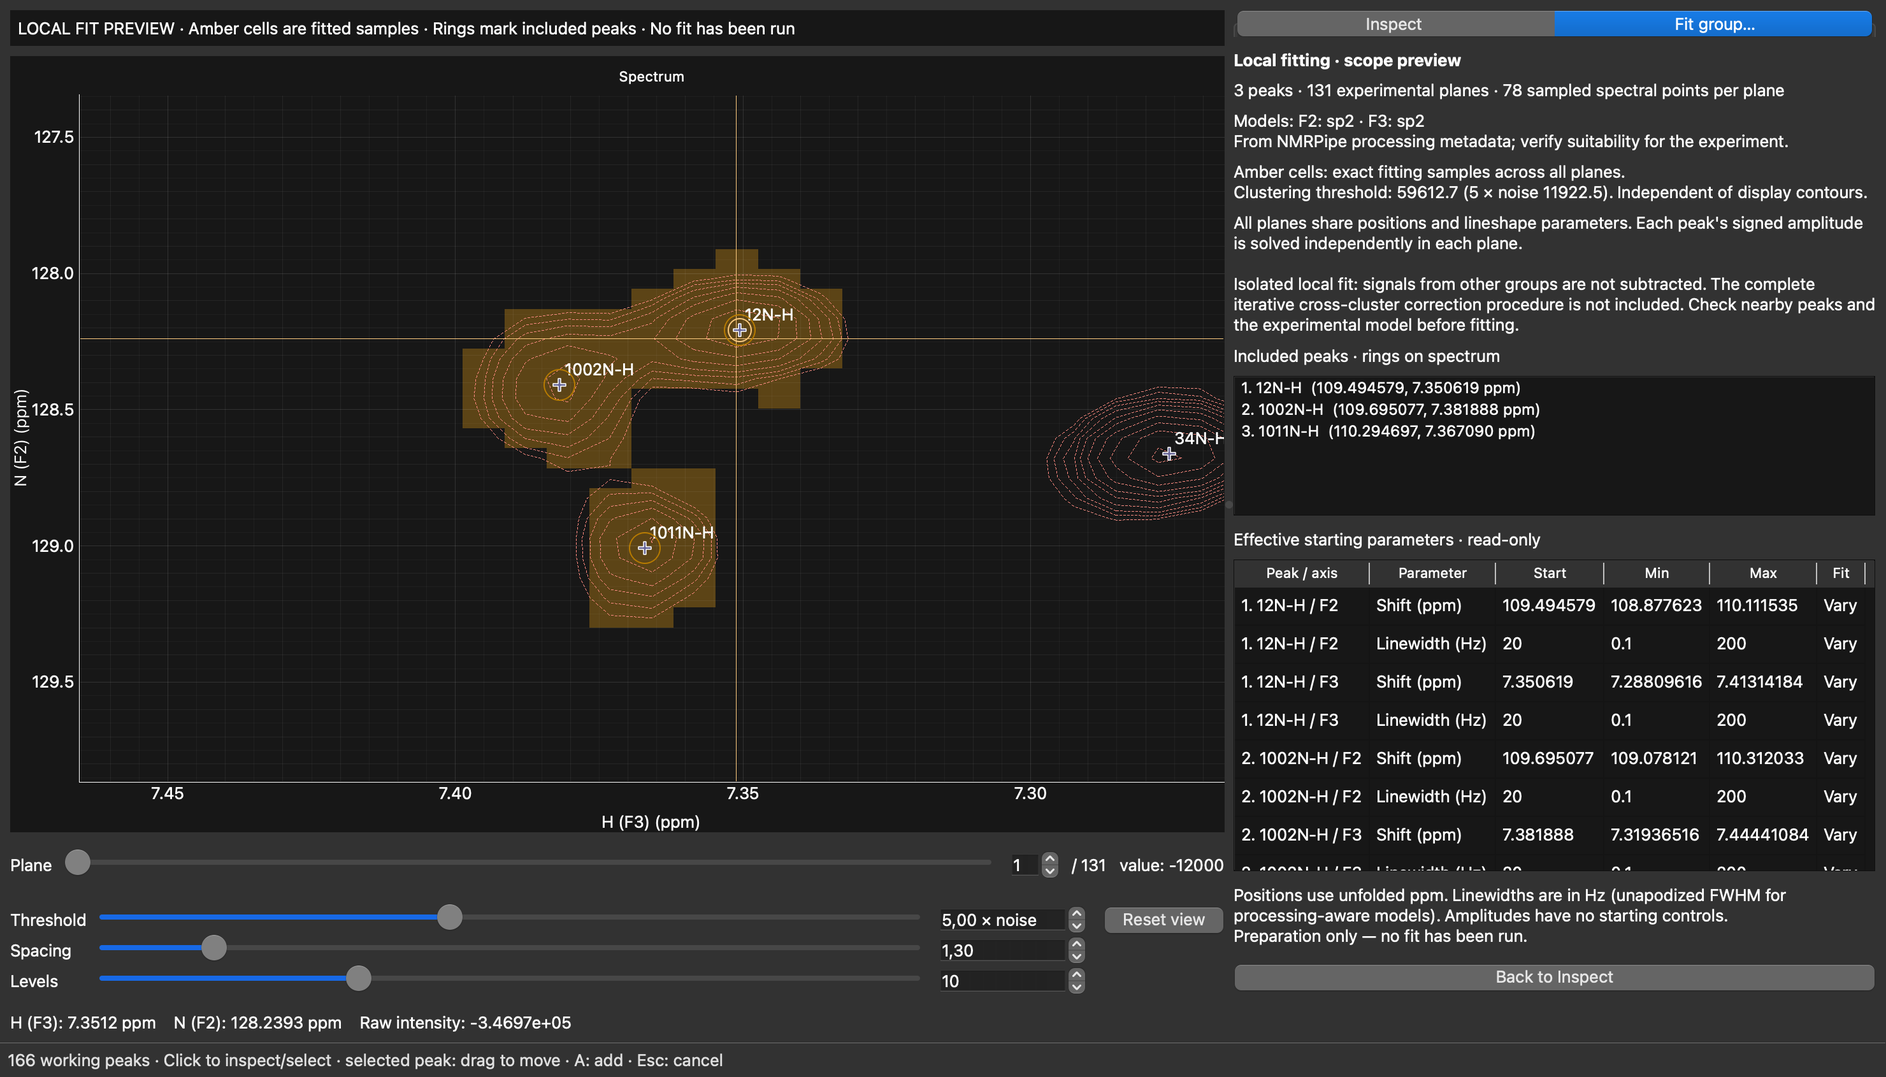
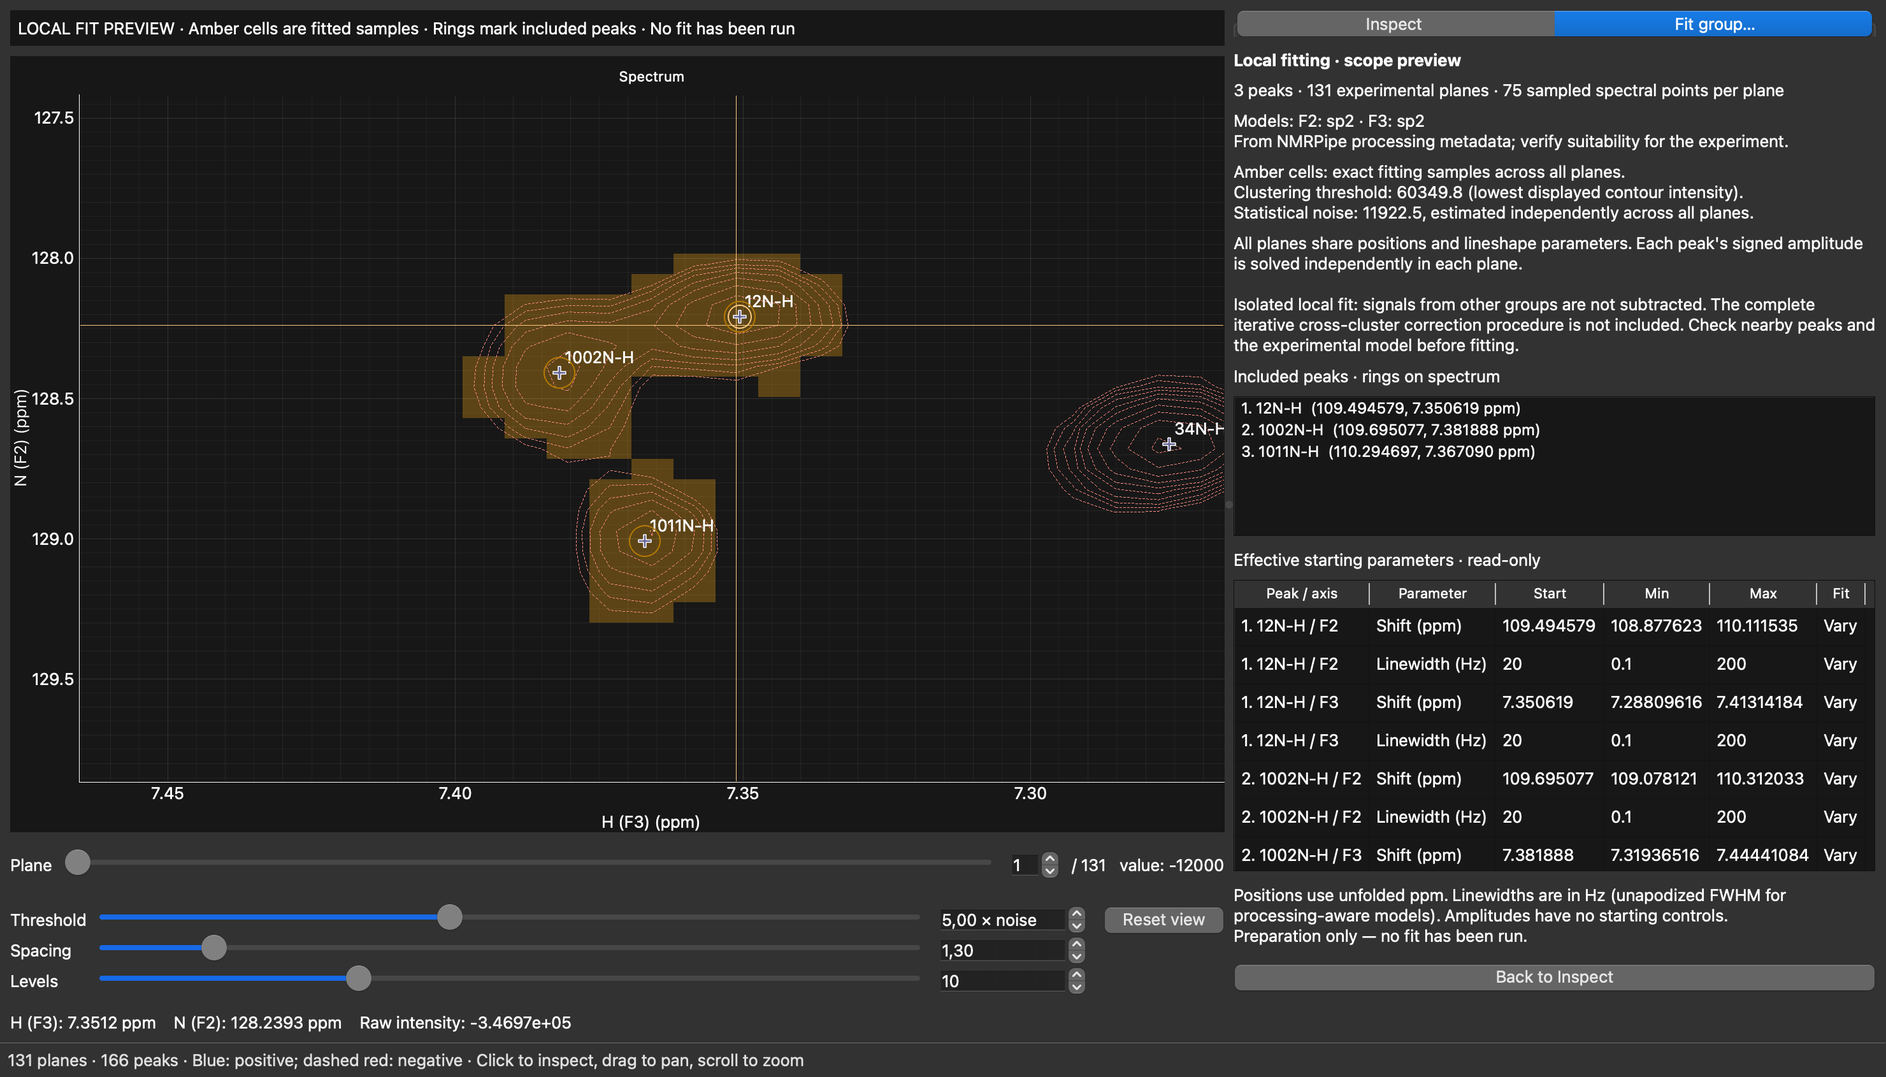
Define local fitting scope from the viewer contour threshold

diff --git a/tests/test_gui_fitting.py b/tests/test_gui_fitting.py
@@ -5,14 +5,14 @@ from pathlib import Path
 
 import numpy as np
 import pytest
-from PySide6 import QtCore, QtWidgets
+from PySide6 import QtCore, QtTest, QtWidgets
 
 from peakfit.engine.algorithms.clustering import create_clusters
-from peakfit.engine.algorithms.noise import prepare_noise_level
+from peakfit.engine.algorithms.noise import estimate_noise, prepare_noise_level
 from peakfit.engine.domain.config import PeakFitConfig
 from peakfit.engine.domain.spectrum import get_shape_names
 from peakfit.gui.fitting import prepare_local_fit
-from peakfit.gui.spectrum import load_peaks, load_spectrum
+from peakfit.gui.spectrum import contour_paths, load_peaks, load_spectrum
 from peakfit.gui.viewer import SpectrumViewer
 from peakfit.io.readers.peaks import read_list
 
@@ -34,8 +34,13 @@ def test_all_plane_region_identity_aliasing_and_read_only_preview(monkeypatch) -
     )
 
     noise = prepare_noise_level(None, spectra)
-    groups = create_clusters(spectra, reference_peaks, 5 * noise)
-    reference = next(group for group in groups if len(group.peaks) > 1)
+    contour_level = 5 * estimate_noise(spectra.data[0])
+    groups = create_clusters(spectra, reference_peaks, contour_level)
+    high_groups = create_clusters(spectra, reference_peaks, 1000 * estimate_noise(spectra.data[0]))
+    high_sizes = {peak.name: len(group.peaks) for group in high_groups for peak in group.peaks}
+    reference = next(
+        group for group in groups if high_sizes[group.peaks[0].name] < len(group.peaks)
+    )
     selected = next(peak for peak in peaks if peak.name == reference.peaks[0].name)
     expected_ids = {peak.id for peak in peaks if peak.name in {p.name for p in reference.peaks}}
     # Rename two members to the same assignment, preserving separate identities;
@@ -54,7 +59,7 @@ def test_all_plane_region_identity_aliasing_and_read_only_preview(monkeypatch) -
         else peak
         for peak in peaks
     )
-    prepared = prepare_local_fit(spectra, peaks, selected.id)
+    prepared = prepare_local_fit(spectra, peaks, selected.id, contour_level=contour_level)
     assert {item.working_id for item in prepared.identities} == expected_ids
     assert len({item.engine_name for item in prepared.identities}) == len(expected_ids)
     assert sum(item.assignment == "Duplicate" for item in prepared.identities) == 2
@@ -63,7 +68,8 @@ def test_all_plane_region_identity_aliasing_and_read_only_preview(monkeypatch) -
     np.testing.assert_array_equal(prepared.cluster.data, reference.data)
     assert prepared.cluster.n_series == spectra.data.shape[0]
     assert prepared.noise == noise
-    assert prepared.contour_level == 5 * noise
+    assert prepared.contour_level == contour_level
+    assert prepared.snapshot.contour_level == contour_level
     identity = next(item for item in prepared.identities if item.working_id == selected.id)
     scientific = next(peak for peak in prepared.cluster.peaks if peak.name == identity.engine_name)
     working = next(peak for peak in peaks if peak.id == selected.id)
@@ -80,7 +86,7 @@ def test_all_plane_region_identity_aliasing_and_read_only_preview(monkeypatch) -
     np.testing.assert_array_equal(signs, -old_signs if y_axis.p180 else old_signs)
     outside = replace(peaks[0], positions=(peaks[0].positions[0], x_axis.pts2ppm(x_axis.size)))
     with pytest.raises(ValueError, match="direct-axis position"):
-        prepare_local_fit(spectra, (outside, *peaks[1:]), outside.id)
+        prepare_local_fit(spectra, (outside, *peaks[1:]), outside.id, contour_level=contour_level)
 
     viewer = SpectrumViewer(spectra)
     viewer.set_peaks(peaks)
@@ -150,6 +156,59 @@ def test_all_plane_region_identity_aliasing_and_read_only_preview(monkeypatch) -
         assert snapshot.plane_values != tuple(spectra.z_values)
         assert not viewer.fit_mask.isVisible()
         viewer.preview_fit_group()
+        baseline = viewer.fit_preparation
+        assert baseline is not None
+        calls = []
+
+        def record_preparation(*args, **kwargs):
+            calls.append(kwargs["contour_level"])
+            return prepare_local_fit(*args, **kwargs)
+
+        monkeypatch.setattr("peakfit.gui.viewer.prepare_local_fit", record_preparation)
+        monkeypatch.setattr("peakfit.gui.viewer.contour_paths", contour_paths)
+        monkeypatch.setattr("peakfit.engine.algorithms.noise.estimate_noise", unexpected)
+        # Display-only controls keep the same scientific preparation.
+        viewer.factor.setValue(1.7)
+        viewer.levels.setValue(11)
+        viewer.set_plane(2)
+        QtTest.QTest.qWait(200)
+        assert viewer.fit_preparation is baseline
+        assert not calls
+        # A burst of slider changes produces one preparation at the final absolute
+        # base intensity. Statistical noise is reused rather than re-estimated.
+        for value in (390, 395, 400):
+            viewer.threshold_slider.setValue(value)
+        assert viewer.fit_preparation is None
+        assert not viewer.fit_mask.isVisible()
+        assert not viewer.fit_preview.parameters.isEnabled()
+        QtTest.QTest.qWait(300)
+        updated = viewer.fit_preparation
+        assert updated is not None
+        assert calls == [viewer.lowest_contour_level]
+        assert (
+            updated.contour_level == updated.snapshot.contour_level == viewer.lowest_contour_level
+        )
+        effective = PeakFitConfig.model_validate_json(updated.snapshot.configuration)
+        assert effective.clustering.contour_level == viewer.lowest_contour_level
+        assert updated.noise == baseline.noise == noise
+        reference_groups = create_clusters(spectra, reference_peaks, viewer.lowest_contour_level)
+        reference_group = next(
+            g for g in reference_groups if selected.name in {p.name for p in g.peaks}
+        )
+        by_name = {p.name: w.id for p, w in zip(reference_peaks, peaks, strict=True)}
+        updated_ids = {by_name[p.name] for p in reference_group.peaks}
+        assert {member.working_id for member in updated.identities} == updated_ids
+        assert updated_ids != expected_ids
+        for actual, expected in zip(
+            updated.cluster.grid_indices, reference_group.grid_indices, strict=True
+        ):
+            np.testing.assert_array_equal(actual, expected)
+        expected_mask[:] = False
+        expected_mask[tuple(reference_group.grid_indices)] = True
+        np.testing.assert_array_equal(viewer.fit_mask.image[..., 3] > 0, expected_mask)
+        assert len(viewer.fit_members.points()) == len(updated_ids)
+        assert viewer.fit_preview.parameters.rowCount() == len(updated.parameters)
+        assert viewer.fit_preview.parameters.isEnabled()
         viewer.dismiss_fit_preview()
         assert viewer.peaks == peaks
         np.testing.assert_array_equal(spectra.data, original_data)

diff --git a/src/peakfit/gui/viewer.py b/src/peakfit/gui/viewer.py
@@ -10,6 +10,7 @@ from PySide6 import QtCore, QtGui, QtWidgets
 import pyqtgraph as pg
 
 from peakfit.engine.algorithms.noise import estimate_noise
+from peakfit.engine.domain.config import PeakFitConfig
 from peakfit.gui.editing import PeakInspector, PeakMarkers
 from peakfit.gui.fit_preview import FitPreview
 from peakfit.gui.fitting import PreparedLocalFit, prepare_local_fit
@@ -45,6 +46,7 @@ class SpectrumViewer(QtWidgets.QWidget):
         self.peak_labels: list[pg.TextItem] = []
         self.labels_visible = False
         self.fit_preparation: PreparedLocalFit | None = None
+        self._fit_noise: float | None = None
         self._colors = self._palette_colors()
         self._build_ui()
         self._build_edit_actions()
@@ -54,6 +56,11 @@ class SpectrumViewer(QtWidgets.QWidget):
         self._contour_timer.setSingleShot(True)
         self._contour_timer.setInterval(30)
         self._contour_timer.timeout.connect(self._update_contours)
+        self._fit_timer = QtCore.QTimer(self)
+        self._fit_timer.setSingleShot(True)
+        self._fit_timer.setInterval(150)
+        self._fit_timer.timeout.connect(self.preview_fit_group)
+        self.threshold.valueChanged.connect(self._schedule_fit_preview)
         for control in (self.threshold, self.factor, self.levels):
             control.valueChanged.connect(self._schedule_contours)
         self._update_contours()
@@ -254,15 +261,24 @@ class SpectrumViewer(QtWidgets.QWidget):
         if self.selected_id is None or not self.apply_pending_fields():
             self.dismiss_fit_preview()
             return
+        self._fit_timer.stop()
         selected_id = self.selected_id
         self.cancel_interaction()
         try:
-            prepared = prepare_local_fit(self.spectra, self.peaks, selected_id)
+            prepared = prepare_local_fit(
+                self.spectra,
+                self.peaks,
+                selected_id,
+                PeakFitConfig(noise_level=self._fit_noise),
+                contour_level=self.lowest_contour_level,
+            )
         except (ValueError, RuntimeError) as exc:
             self.dismiss_fit_preview()
             self.inspector.details.setText(str(exc))
             return
+        self._fit_noise = prepared.noise
         self.fit_preparation = prepared
+        self.fit_preview.setEnabled(True)
         self.fit_preview.show_preparation(prepared)
         rgba = np.zeros((*self.spectra.data.shape[1:], 4), dtype=np.uint8)
         rgba[tuple(prepared.cluster.grid_indices)] = (230, 160, 20, 85)
@@ -295,9 +311,27 @@ class SpectrumViewer(QtWidgets.QWidget):
             "No fit has been run"
         )
 
+    def _schedule_fit_preview(self) -> None:
+        """Debounce threshold drags; an outdated region is not a reviewed input."""
+        if self.workspaces.currentIndex() != 1:
+            return
+        if (
+            self.fit_preparation is not None
+            and self.fit_preparation.contour_level == self.lowest_contour_level
+        ):
+            return
+        self.fit_preparation = None
+        self.fit_mask.hide()
+        self.fit_members.clear()
+        self.fit_preview.setEnabled(False)
+        self.fit_preview.summary.setText("Updating fitting scope for the contour threshold…")
+        self._fit_timer.start()
+
     def dismiss_fit_preview(self) -> None:
         """Drop a preparation when returning to inspection or changing inputs."""
+        self._fit_timer.stop()
         self.fit_preparation = None
+        self.fit_preview.setEnabled(True)
         self.fit_mask.hide()
         self.fit_members.clear()
         with QtCore.QSignalBlocker(self.workspace_tabs):
@@ -482,6 +516,11 @@ class SpectrumViewer(QtWidgets.QWidget):
         if not self._contour_timer.isActive():
             self._contour_timer.start()
 
+    @property
+    def lowest_contour_level(self) -> float:
+        """Absolute base intensity shared by displayed contours and local clustering."""
+        return max(self.noise * self.threshold.value(), np.finfo(float).tiny)
+
     def _update_contours(self) -> None:
         n_levels = self.levels.value()
         while len(self.contours) < 2 * n_levels:
@@ -489,7 +528,7 @@ class SpectrumViewer(QtWidgets.QWidget):
             item.setZValue(-10)
             self.spectrum_plot.addItem(item)
             self.contours.append(item)
-        base = max(self.noise * self.threshold.value(), np.finfo(float).tiny)
+        base = self.lowest_contour_level
         positive = base * self.factor.value() ** np.arange(n_levels)
         levels = np.concatenate((positive, -positive))
         paths = contour_paths(self.spectra.data[self.plane], self.spectra.spectral_params, levels)
@@ -633,6 +672,8 @@ class SpectrumViewer(QtWidgets.QWidget):
         """Select by identity; inspection alone snaps to measured sample indices."""
         if peak_id != self.selected_id and not self.apply_pending_fields():
             return
+        if peak_id != self.selected_id and self._fit_timer.isActive():
+            self.dismiss_fit_preview()
         peak = next((p for p in self.peaks if p.id == peak_id), None)
         self.selected_id = peak.id if peak else None
         if self.fit_preparation is not None and not any(

diff --git a/src/peakfit/gui/fitting.py b/src/peakfit/gui/fitting.py
@@ -40,6 +40,7 @@ class FitInputSnapshot:
     plane_values: tuple[float, ...]
     peaks: tuple[WorkingPeak, ...]
     configuration: str
+    contour_level: float
 
 
 @dataclass(frozen=True, slots=True)
@@ -69,14 +70,19 @@ def prepare_local_fit(
     peaks: tuple[WorkingPeak, ...],
     selected_id: str,
     config: PeakFitConfig | None = None,
+    *,
+    contour_level: float,
 ) -> PreparedLocalFit:
     """Use the regular scientific path to prepare one selected all-plane cluster.
 
     All working peaks participate in segmentation. The returned region uses the
-    scientific clustering threshold, never the viewer's display contours. No
+    absolute lowest displayed contour intensity supplied by the viewer. No
     optimizer, auto-picking, correction updates, or file bridge is involved.
     """
     settings = config.model_copy(deep=True) if config is not None else PeakFitConfig()
+    if not np.isfinite(contour_level) or contour_level <= 0:
+        raise ValueError("The clustering threshold must be positive and finite.")
+    settings.clustering.contour_level = float(contour_level)
     _validate_constraint_targets(settings)
     _validate_inputs(spectra, peaks, selected_id, settings)
     steps = build_fit_steps(settings.fitting.steps, settings.fitting.refine_iterations)
@@ -89,6 +95,7 @@ def prepare_local_fit(
         plane_values=tuple(float(value) for value in spectra.z_values),
         peaks=tuple(peaks),
         configuration=settings.model_dump_json(),
+        contour_level=float(contour_level),
     )
     # Fresh metadata prevents edits to plane labels or axes changing this model.
     scientific_spectra = spectra.model_copy(
@@ -100,11 +107,6 @@ def prepare_local_fit(
     noise = float(prepare_noise_level(settings.noise_level, scientific_spectra))
     if not np.isfinite(noise) or noise <= 0:
         raise ValueError("Cannot estimate positive finite noise for this spectrum.")
-    contour = settings.clustering.contour_level
-    if contour is None:
-        contour = settings.clustering.contour_factor * noise
-    if not np.isfinite(contour) or contour <= 0:
-        raise ValueError("The scientific clustering threshold must be positive and finite.")
     shape_names = get_shape_names(settings.fitting, scientific_spectra)
     # Enumeration is safe even for unusual imported IDs; the explicit mapping,
     # never names or list order alone, relates scientific and working identities.
@@ -125,7 +127,7 @@ def prepare_local_fit(
         )
         for peak, identity in zip(peaks, identities, strict=True)
     ]
-    clusters = create_clusters(scientific_spectra, scientific_peaks, contour)
+    clusters = create_clusters(scientific_spectra, scientific_peaks, contour_level)
     selected_name = next(item.engine_name for item in identities if item.working_id == selected_id)
     cluster = next(
         (group for group in clusters if any(peak.name == selected_name for peak in group.peaks)),
@@ -145,7 +147,7 @@ def prepare_local_fit(
         tuple(item for item in identities if item.engine_name in members),
         tuple(shape_names),
         noise,
-        float(contour),
+        float(contour_level),
         cluster,
         parameters,
     )

diff --git a/tests/test_fit_preparation.py b/tests/test_fit_preparation.py
@@ -5,6 +5,7 @@ from pathlib import Path
 import numpy as np
 import pytest
 
+from peakfit.engine.algorithms.noise import prepare_noise_level
 from peakfit.engine.domain.config import PeakFitConfig
 from peakfit.engine.domain.constraints import ParameterConstraint, PeakConstraints
 from peakfit.engine.domain.fit_steps import FitStep
@@ -20,6 +21,7 @@ DATA = Path(__file__).resolve().parents[1] / "examples" / "02-advanced-fitting" 
 
 def test_preview_matches_submitted_parameters_and_continuation(monkeypatch) -> None:  # noqa: PLR0915
     spectra = read_spectra(DATA / "pseudo3d.ft2")
+    contour_level = 5 * prepare_noise_level(None, spectra)
     peak = WorkingPeak.new("same.assignment", (120.0, 8.5))
     # Test multiple existing model families, including model-specific parameters.
     for model in ("auto", "pvoigt", "lorentzian_doublet"):
@@ -29,7 +31,7 @@ def test_preview_matches_submitted_parameters_and_continuation(monkeypatch) -> N
             value=35, min=10, max=80, vary=False
         )
         config.parameters.defaults.patterns["*.F2.cs"] = ParameterConstraint(vary=False)
-        prepared = prepare_local_fit(spectra, (peak,), peak.id, config)
+        prepared = prepare_local_fit(spectra, (peak,), peak.id, config, contour_level=contour_level)
         assert not prepared.parameters[f"{prepared.identities[0].engine_name}.F2.cs"].vary
         widths = [
             p
@@ -90,12 +92,12 @@ def test_preview_matches_submitted_parameters_and_continuation(monkeypatch) -> N
     unsupported.append(from_file)
     for settings in unsupported:
         with pytest.raises(ValueError, match=r"assignment.*not supported.*wildcard"):
-            prepare_local_fit(spectra, (peak,), peak.id, settings)
+            prepare_local_fit(spectra, (peak,), peak.id, settings, contour_level=contour_level)
 
     # A configured start must be used once; explicit later release continues from
     # the preceding fit rather than resetting to 35 Hz. No optimizer is executed.
     config.fitting.lineshape = "gaussian"
-    prepared = prepare_local_fit(spectra, (peak,), peak.id, config)
+    prepared = prepare_local_fit(spectra, (peak,), peak.id, config, contour_level=contour_level)
     config.fitting.steps = [FitStep(name="start"), FitStep(name="release", vary=["*.*.lw"])]
     captured = []
 
@@ -138,4 +140,4 @@ def test_preview_matches_submitted_parameters_and_continuation(monkeypatch) -> N
         if p.param_id is not None and p.param_id.label == "lw"
     )
     with pytest.raises(ValueError, match="one isolated"):
-        prepare_local_fit(spectra, (peak,), peak.id, config)
+        prepare_local_fit(spectra, (peak,), peak.id, config, contour_level=contour_level)

diff --git a/src/peakfit/gui/fit_preview.py b/src/peakfit/gui/fit_preview.py
@@ -86,8 +86,8 @@ class FitPreview(QtWidgets.QWidget):
         self.region.setText(
             f"Amber cells: exact fitting samples across all planes.\n"
             f"Clustering threshold: {prepared.contour_level:.6g} "
-            f"({prepared.contour_level / prepared.noise:g} × noise "
-            f"{prepared.noise:.6g}). Independent of display contours."
+            "(lowest displayed contour intensity).\n"
+            f"Statistical noise: {prepared.noise:.6g}, estimated independently across all planes."
         )
         self.members.clear()
         labels = {}

diff --git a/docs/gui.md b/docs/gui.md
@@ -122,9 +122,11 @@ plane/sample counts, resolved axis models, noise and clustering threshold, and t
 nonlinear starting values, bounds, units, and fixed/variable flags from the same
 parameter preparation function used by the pipeline. Positions remain unfolded;
 direct-axis coordinates outside the sampled extent are rejected instead of wrapped.
-The scientific clustering threshold defaults to 5 times the all-plane noise and is
-independent of the display threshold, which still uses first-plane noise. No model
-or parameter editing controls are exposed yet. Programmatic local preparation
+The clustering threshold is the **absolute intensity of the lowest displayed
+contour**, shared with the viewer's Threshold control (whose scale uses first-plane
+noise). The optimizer's statistical noise is estimated independently from all planes;
+changing the contour threshold does not change that estimate. No model or parameter
+editing controls are exposed yet. Programmatic local preparation
 supports only global and axis/parameter-wide wildcard rules (`*`, `*.*.lw`,
 `*.F2.cs`, and the same pattern forms in fit-step fix/vary rules). It rejects
 `parameters.peaks`, name-targeted patterns, and `parameters.from_file` with an
@@ -147,12 +149,20 @@ samples. Selecting another member keeps the same prepared group without recomput
 Selecting an outside peak or clearing selection dismisses the preview and returns
 to Inspect. Peak edits, peak-list replacement, and plane-coordinate changes also
 dismiss it. Snapshots retain working IDs/assignments, spectrum identity and shape,
-spectral metadata, plane coordinates, and fitting configuration. They are preparation
-inputs, not completed results or a persisted session.
+spectral metadata, plane coordinates, the effective absolute clustering threshold,
+and fitting configuration. They are preparation inputs, not completed results
+or a persisted session.
 
-Preparation is synchronous and performed only on explicit entry, not on navigation;
-it does not rebuild experimental contours. Large datasets can briefly pause during
-noise estimation/segmentation. There are no background workers in this step.
+Changing **Threshold** while the Fit workspace is open updates membership, mask,
+member rings, and effective parameters. Rapid slider changes are coalesced after a
+short pause (150 ms); the previous scope is hidden and marked as updating until the
+new preparation is ready. Spacing, number of levels, and displayed plane affect
+rendering only and never redefine the cluster. The all-plane noise estimate is
+reused for the unchanged dataset. Returning to Inspect cancels any pending update.
+
+Preparation is synchronous on entry and after coalesced threshold changes, not on
+ordinary navigation; it does not itself rebuild experimental contours. Large datasets
+can briefly pause during segmentation. There are no background workers in this step.
 
 ![Local fitting scope with the bundled pseudo-3D spectrum](images/fit-scope-preview.png)
 
